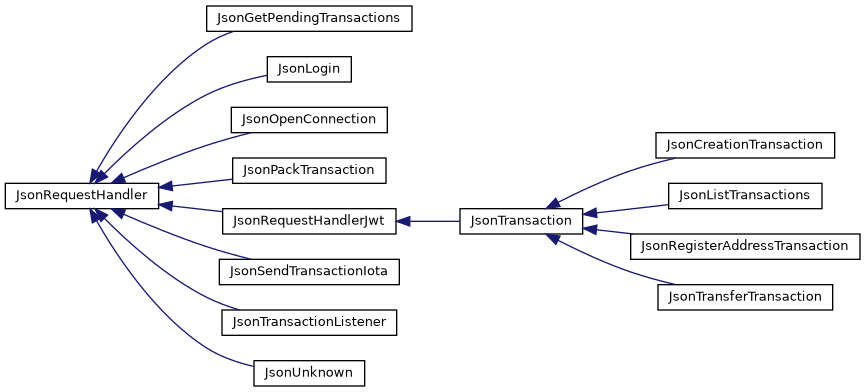
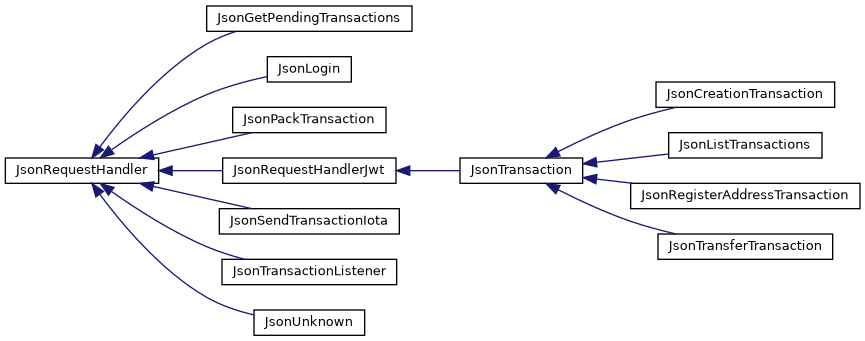
deploy: db9c74a3f419a158d69f83db709e3152a1f43d9a

diff --git a/hierarchy.html b/hierarchy.html
@@ -93,26 +93,25 @@ This inheritance list is sorted roughly, but not completely, alphabetically:</di
 <tr id="row_4_" class="even"><td class="entry"><span style="width:0px;display:inline-block;">&#160;</span><span id="arr_4_" class="arrow" onclick="toggleFolder('4_')">&#9660;</span><span class="icona"><span class="icon">C</span></span><a class="elRef" href="class_json_request_handler.html" target="_self">JsonRequestHandler</a>&#160;[external]</td><td class="desc"></td></tr>
 <tr id="row_4_0_"><td class="entry"><span style="width:32px;display:inline-block;">&#160;</span><span class="icona"><span class="icon">C</span></span><a class="el" href="class_json_get_pending_transactions.html" target="_self">JsonGetPendingTransactions</a></td><td class="desc"></td></tr>
 <tr id="row_4_1_" class="even"><td class="entry"><span style="width:32px;display:inline-block;">&#160;</span><span class="icona"><span class="icon">C</span></span><a class="el" href="class_json_login.html" target="_self">JsonLogin</a></td><td class="desc"></td></tr>
-<tr id="row_4_2_"><td class="entry"><span style="width:32px;display:inline-block;">&#160;</span><span class="icona"><span class="icon">C</span></span><a class="el" href="class_json_open_connection.html" target="_self">JsonOpenConnection</a></td><td class="desc"></td></tr>
-<tr id="row_4_3_" class="even"><td class="entry"><span style="width:32px;display:inline-block;">&#160;</span><span class="icona"><span class="icon">C</span></span><a class="el" href="class_json_pack_transaction.html" target="_self">JsonPackTransaction</a></td><td class="desc">Create protobuf byte array from transaction details </td></tr>
-<tr id="row_4_4_"><td class="entry"><span style="width:16px;display:inline-block;">&#160;</span><span id="arr_4_4_" class="arrow" onclick="toggleFolder('4_4_')">&#9660;</span><span class="icona"><span class="icon">C</span></span><a class="elRef" href="class_json_request_handler_jwt.html" target="_self">JsonRequestHandlerJwt</a>&#160;[external]</td><td class="desc"></td></tr>
-<tr id="row_4_4_0_" class="even"><td class="entry"><span style="width:32px;display:inline-block;">&#160;</span><span id="arr_4_4_0_" class="arrow" onclick="toggleFolder('4_4_0_')">&#9660;</span><span class="icona"><span class="icon">C</span></span><a class="el" href="class_json_transaction.html" target="_self">JsonTransaction</a></td><td class="desc"></td></tr>
-<tr id="row_4_4_0_0_"><td class="entry"><span style="width:64px;display:inline-block;">&#160;</span><span class="icona"><span class="icon">C</span></span><a class="el" href="class_json_creation_transaction.html" target="_self">JsonCreationTransaction</a></td><td class="desc"></td></tr>
-<tr id="row_4_4_0_1_" class="even"><td class="entry"><span style="width:64px;display:inline-block;">&#160;</span><span class="icona"><span class="icon">C</span></span><a class="el" href="class_json_list_transactions.html" target="_self">JsonListTransactions</a></td><td class="desc"></td></tr>
-<tr id="row_4_4_0_2_"><td class="entry"><span style="width:64px;display:inline-block;">&#160;</span><span class="icona"><span class="icon">C</span></span><a class="el" href="class_json_register_address_transaction.html" target="_self">JsonRegisterAddressTransaction</a></td><td class="desc"></td></tr>
-<tr id="row_4_4_0_3_" class="even"><td class="entry"><span style="width:64px;display:inline-block;">&#160;</span><span class="icona"><span class="icon">C</span></span><a class="el" href="class_json_transfer_transaction.html" target="_self">JsonTransferTransaction</a></td><td class="desc"></td></tr>
-<tr id="row_4_5_"><td class="entry"><span style="width:32px;display:inline-block;">&#160;</span><span class="icona"><span class="icon">C</span></span><a class="el" href="class_json_send_transaction_iota.html" target="_self">JsonSendTransactionIota</a></td><td class="desc">Create protobuf byte array from transaction details* </td></tr>
-<tr id="row_4_6_" class="even"><td class="entry"><span style="width:32px;display:inline-block;">&#160;</span><span class="icona"><span class="icon">C</span></span><a class="el" href="class_json_transaction_listener.html" target="_self">JsonTransactionListener</a></td><td class="desc"></td></tr>
-<tr id="row_4_7_"><td class="entry"><span style="width:32px;display:inline-block;">&#160;</span><span class="icona"><span class="icon">C</span></span><a class="el" href="class_json_unknown.html" target="_self">JsonUnknown</a></td><td class="desc"></td></tr>
-<tr id="row_5_" class="even"><td class="entry"><span style="width:0px;display:inline-block;">&#160;</span><span id="arr_5_" class="arrow" onclick="toggleFolder('5_')">&#9660;</span><span class="icona"><span class="icon">C</span></span><a class="elRef" href="class_multithread_container.html" target="_self">MultithreadContainer</a>&#160;[external]</td><td class="desc"></td></tr>
-<tr id="row_5_0_"><td class="entry"><span style="width:32px;display:inline-block;">&#160;</span><span class="icona"><span class="icon">C</span></span><a class="el" href="class_password_encryption_rate_limiter.html" target="_self">PasswordEncryptionRateLimiter</a></td><td class="desc"></td></tr>
-<tr id="row_5_1_" class="even"><td class="entry"><span style="width:32px;display:inline-block;">&#160;</span><span class="icona"><span class="icon">C</span></span><a class="el" href="classmodel_1_1_pending_transactions.html" target="_self">model::PendingTransactions</a></td><td class="desc"></td></tr>
-<tr id="row_5_2_"><td class="entry"><span style="width:32px;display:inline-block;">&#160;</span><span class="icona"><span class="icon">C</span></span><a class="el" href="classmodel_1_1_session.html" target="_self">model::Session</a></td><td class="desc"></td></tr>
-<tr id="row_6_" class="even"><td class="entry"><span style="width:16px;display:inline-block;">&#160;</span><span class="icona"><span class="icon">C</span></span><a class="el" href="structmodel_1_1_pending_transactions_1_1_pending_transaction.html" target="_self">model::PendingTransactions::PendingTransaction</a></td><td class="desc"></td></tr>
-<tr id="row_7_"><td class="entry"><span style="width:0px;display:inline-block;">&#160;</span><span id="arr_7_" class="arrow" onclick="toggleFolder('7_')">&#9660;</span><span class="icona"><span class="icon">C</span></span><b>Poco::Util::ServerApplication</b></td><td class="desc"></td></tr>
-<tr id="row_7_0_" class="even"><td class="entry"><span style="width:32px;display:inline-block;">&#160;</span><span class="icona"><span class="icon">C</span></span><a class="el" href="class_gradido_blockchain_connector.html" target="_self">GradidoBlockchainConnector</a></td><td class="desc"></td></tr>
-<tr id="row_8_"><td class="entry"><span style="width:16px;display:inline-block;">&#160;</span><span class="icona"><span class="icon">C</span></span><a class="el" href="class_session_manager.html" target="_self">SessionManager</a></td><td class="desc"></td></tr>
-<tr id="row_9_" class="even"><td class="entry"><span style="width:16px;display:inline-block;">&#160;</span><span class="icona"><span class="icon">C</span></span><a class="el" href="classmodel_1_1table_1_1_versions_manager.html" target="_self">model::table::VersionsManager</a></td><td class="desc"></td></tr>
+<tr id="row_4_2_"><td class="entry"><span style="width:32px;display:inline-block;">&#160;</span><span class="icona"><span class="icon">C</span></span><a class="el" href="class_json_pack_transaction.html" target="_self">JsonPackTransaction</a></td><td class="desc">Create protobuf byte array from transaction details </td></tr>
+<tr id="row_4_3_" class="even"><td class="entry"><span style="width:16px;display:inline-block;">&#160;</span><span id="arr_4_3_" class="arrow" onclick="toggleFolder('4_3_')">&#9660;</span><span class="icona"><span class="icon">C</span></span><a class="elRef" href="class_json_request_handler_jwt.html" target="_self">JsonRequestHandlerJwt</a>&#160;[external]</td><td class="desc"></td></tr>
+<tr id="row_4_3_0_"><td class="entry"><span style="width:32px;display:inline-block;">&#160;</span><span id="arr_4_3_0_" class="arrow" onclick="toggleFolder('4_3_0_')">&#9660;</span><span class="icona"><span class="icon">C</span></span><a class="el" href="class_json_transaction.html" target="_self">JsonTransaction</a></td><td class="desc"></td></tr>
+<tr id="row_4_3_0_0_" class="even"><td class="entry"><span style="width:64px;display:inline-block;">&#160;</span><span class="icona"><span class="icon">C</span></span><a class="el" href="class_json_creation_transaction.html" target="_self">JsonCreationTransaction</a></td><td class="desc"></td></tr>
+<tr id="row_4_3_0_1_"><td class="entry"><span style="width:64px;display:inline-block;">&#160;</span><span class="icona"><span class="icon">C</span></span><a class="el" href="class_json_list_transactions.html" target="_self">JsonListTransactions</a></td><td class="desc"></td></tr>
+<tr id="row_4_3_0_2_" class="even"><td class="entry"><span style="width:64px;display:inline-block;">&#160;</span><span class="icona"><span class="icon">C</span></span><a class="el" href="class_json_register_address_transaction.html" target="_self">JsonRegisterAddressTransaction</a></td><td class="desc"></td></tr>
+<tr id="row_4_3_0_3_"><td class="entry"><span style="width:64px;display:inline-block;">&#160;</span><span class="icona"><span class="icon">C</span></span><a class="el" href="class_json_transfer_transaction.html" target="_self">JsonTransferTransaction</a></td><td class="desc"></td></tr>
+<tr id="row_4_4_" class="even"><td class="entry"><span style="width:32px;display:inline-block;">&#160;</span><span class="icona"><span class="icon">C</span></span><a class="el" href="class_json_send_transaction_iota.html" target="_self">JsonSendTransactionIota</a></td><td class="desc">Create protobuf byte array from transaction details* </td></tr>
+<tr id="row_4_5_"><td class="entry"><span style="width:32px;display:inline-block;">&#160;</span><span class="icona"><span class="icon">C</span></span><a class="el" href="class_json_transaction_listener.html" target="_self">JsonTransactionListener</a></td><td class="desc"></td></tr>
+<tr id="row_4_6_" class="even"><td class="entry"><span style="width:32px;display:inline-block;">&#160;</span><span class="icona"><span class="icon">C</span></span><a class="el" href="class_json_unknown.html" target="_self">JsonUnknown</a></td><td class="desc"></td></tr>
+<tr id="row_5_"><td class="entry"><span style="width:0px;display:inline-block;">&#160;</span><span id="arr_5_" class="arrow" onclick="toggleFolder('5_')">&#9660;</span><span class="icona"><span class="icon">C</span></span><a class="elRef" href="class_multithread_container.html" target="_self">MultithreadContainer</a>&#160;[external]</td><td class="desc"></td></tr>
+<tr id="row_5_0_" class="even"><td class="entry"><span style="width:32px;display:inline-block;">&#160;</span><span class="icona"><span class="icon">C</span></span><a class="el" href="class_password_encryption_rate_limiter.html" target="_self">PasswordEncryptionRateLimiter</a></td><td class="desc"></td></tr>
+<tr id="row_5_1_"><td class="entry"><span style="width:32px;display:inline-block;">&#160;</span><span class="icona"><span class="icon">C</span></span><a class="el" href="classmodel_1_1_pending_transactions.html" target="_self">model::PendingTransactions</a></td><td class="desc"></td></tr>
+<tr id="row_5_2_" class="even"><td class="entry"><span style="width:32px;display:inline-block;">&#160;</span><span class="icona"><span class="icon">C</span></span><a class="el" href="classmodel_1_1_session.html" target="_self">model::Session</a></td><td class="desc"></td></tr>
+<tr id="row_6_"><td class="entry"><span style="width:16px;display:inline-block;">&#160;</span><span class="icona"><span class="icon">C</span></span><a class="el" href="structmodel_1_1_pending_transactions_1_1_pending_transaction.html" target="_self">model::PendingTransactions::PendingTransaction</a></td><td class="desc"></td></tr>
+<tr id="row_7_" class="even"><td class="entry"><span style="width:0px;display:inline-block;">&#160;</span><span id="arr_7_" class="arrow" onclick="toggleFolder('7_')">&#9660;</span><span class="icona"><span class="icon">C</span></span><b>Poco::Util::ServerApplication</b></td><td class="desc"></td></tr>
+<tr id="row_7_0_"><td class="entry"><span style="width:32px;display:inline-block;">&#160;</span><span class="icona"><span class="icon">C</span></span><a class="el" href="class_gradido_blockchain_connector.html" target="_self">GradidoBlockchainConnector</a></td><td class="desc"></td></tr>
+<tr id="row_8_" class="even"><td class="entry"><span style="width:16px;display:inline-block;">&#160;</span><span class="icona"><span class="icon">C</span></span><a class="el" href="class_session_manager.html" target="_self">SessionManager</a></td><td class="desc"></td></tr>
+<tr id="row_9_"><td class="entry"><span style="width:16px;display:inline-block;">&#160;</span><span class="icona"><span class="icon">C</span></span><a class="el" href="classmodel_1_1table_1_1_versions_manager.html" target="_self">model::table::VersionsManager</a></td><td class="desc"></td></tr>
 </table>
 </div><!-- directory -->
 </div><!-- contents -->

diff --git a/annotated.html b/annotated.html
@@ -94,20 +94,19 @@ $(function() {
 <tr id="row_6_"><td class="entry"><span style="width:16px;display:inline-block;">&#160;</span><span class="icona"><span class="icon">C</span></span><a class="el" href="class_json_get_pending_transactions.html" target="_self">JsonGetPendingTransactions</a></td><td class="desc"></td></tr>
 <tr id="row_7_" class="even"><td class="entry"><span style="width:16px;display:inline-block;">&#160;</span><span class="icona"><span class="icon">C</span></span><a class="el" href="class_json_list_transactions.html" target="_self">JsonListTransactions</a></td><td class="desc"></td></tr>
 <tr id="row_8_"><td class="entry"><span style="width:16px;display:inline-block;">&#160;</span><span class="icona"><span class="icon">C</span></span><a class="el" href="class_json_login.html" target="_self">JsonLogin</a></td><td class="desc"></td></tr>
-<tr id="row_9_" class="even"><td class="entry"><span style="width:16px;display:inline-block;">&#160;</span><span class="icona"><span class="icon">C</span></span><a class="el" href="class_json_open_connection.html" target="_self">JsonOpenConnection</a></td><td class="desc"></td></tr>
-<tr id="row_10_"><td class="entry"><span style="width:16px;display:inline-block;">&#160;</span><span class="icona"><span class="icon">C</span></span><a class="el" href="class_json_pack_transaction.html" target="_self">JsonPackTransaction</a></td><td class="desc">Create protobuf byte array from transaction details </td></tr>
-<tr id="row_11_" class="even"><td class="entry"><span style="width:16px;display:inline-block;">&#160;</span><span class="icona"><span class="icon">C</span></span><a class="el" href="class_json_register_address_transaction.html" target="_self">JsonRegisterAddressTransaction</a></td><td class="desc"></td></tr>
-<tr id="row_12_"><td class="entry"><span style="width:16px;display:inline-block;">&#160;</span><span class="icona"><span class="icon">C</span></span><a class="el" href="class_json_request_handler_factory.html" target="_self">JsonRequestHandlerFactory</a></td><td class="desc"></td></tr>
-<tr id="row_13_" class="even"><td class="entry"><span style="width:16px;display:inline-block;">&#160;</span><span class="icona"><span class="icon">C</span></span><a class="el" href="class_json_send_transaction_iota.html" target="_self">JsonSendTransactionIota</a></td><td class="desc">Create protobuf byte array from transaction details* </td></tr>
-<tr id="row_14_"><td class="entry"><span style="width:16px;display:inline-block;">&#160;</span><span class="icona"><span class="icon">C</span></span><a class="el" href="class_json_transaction.html" target="_self">JsonTransaction</a></td><td class="desc"></td></tr>
-<tr id="row_15_" class="even"><td class="entry"><span style="width:16px;display:inline-block;">&#160;</span><span class="icona"><span class="icon">C</span></span><a class="el" href="class_json_transaction_listener.html" target="_self">JsonTransactionListener</a></td><td class="desc"></td></tr>
-<tr id="row_16_"><td class="entry"><span style="width:16px;display:inline-block;">&#160;</span><span class="icona"><span class="icon">C</span></span><a class="el" href="class_json_transfer_transaction.html" target="_self">JsonTransferTransaction</a></td><td class="desc"></td></tr>
-<tr id="row_17_" class="even"><td class="entry"><span style="width:16px;display:inline-block;">&#160;</span><span class="icona"><span class="icon">C</span></span><a class="el" href="class_json_unknown.html" target="_self">JsonUnknown</a></td><td class="desc"></td></tr>
-<tr id="row_18_"><td class="entry"><span style="width:16px;display:inline-block;">&#160;</span><span class="icona"><span class="icon">C</span></span><a class="el" href="class_login_exception.html" target="_self">LoginException</a></td><td class="desc"></td></tr>
-<tr id="row_19_" class="even"><td class="entry"><span style="width:16px;display:inline-block;">&#160;</span><span class="icona"><span class="icon">C</span></span><a class="el" href="class_password_encryption_rate_limiter.html" target="_self">PasswordEncryptionRateLimiter</a></td><td class="desc"></td></tr>
-<tr id="row_20_"><td class="entry"><span style="width:16px;display:inline-block;">&#160;</span><span class="icona"><span class="icon">C</span></span><a class="el" href="class_password_encryption_rate_limit_exception.html" target="_self">PasswordEncryptionRateLimitException</a></td><td class="desc"></td></tr>
-<tr id="row_21_" class="even"><td class="entry"><span style="width:16px;display:inline-block;">&#160;</span><span class="icona"><span class="icon">C</span></span><a class="el" href="class_session_exception.html" target="_self">SessionException</a></td><td class="desc"></td></tr>
-<tr id="row_22_"><td class="entry"><span style="width:16px;display:inline-block;">&#160;</span><span class="icona"><span class="icon">C</span></span><a class="el" href="class_session_manager.html" target="_self">SessionManager</a></td><td class="desc"></td></tr>
+<tr id="row_9_" class="even"><td class="entry"><span style="width:16px;display:inline-block;">&#160;</span><span class="icona"><span class="icon">C</span></span><a class="el" href="class_json_pack_transaction.html" target="_self">JsonPackTransaction</a></td><td class="desc">Create protobuf byte array from transaction details </td></tr>
+<tr id="row_10_"><td class="entry"><span style="width:16px;display:inline-block;">&#160;</span><span class="icona"><span class="icon">C</span></span><a class="el" href="class_json_register_address_transaction.html" target="_self">JsonRegisterAddressTransaction</a></td><td class="desc"></td></tr>
+<tr id="row_11_" class="even"><td class="entry"><span style="width:16px;display:inline-block;">&#160;</span><span class="icona"><span class="icon">C</span></span><a class="el" href="class_json_request_handler_factory.html" target="_self">JsonRequestHandlerFactory</a></td><td class="desc"></td></tr>
+<tr id="row_12_"><td class="entry"><span style="width:16px;display:inline-block;">&#160;</span><span class="icona"><span class="icon">C</span></span><a class="el" href="class_json_send_transaction_iota.html" target="_self">JsonSendTransactionIota</a></td><td class="desc">Create protobuf byte array from transaction details* </td></tr>
+<tr id="row_13_" class="even"><td class="entry"><span style="width:16px;display:inline-block;">&#160;</span><span class="icona"><span class="icon">C</span></span><a class="el" href="class_json_transaction.html" target="_self">JsonTransaction</a></td><td class="desc"></td></tr>
+<tr id="row_14_"><td class="entry"><span style="width:16px;display:inline-block;">&#160;</span><span class="icona"><span class="icon">C</span></span><a class="el" href="class_json_transaction_listener.html" target="_self">JsonTransactionListener</a></td><td class="desc"></td></tr>
+<tr id="row_15_" class="even"><td class="entry"><span style="width:16px;display:inline-block;">&#160;</span><span class="icona"><span class="icon">C</span></span><a class="el" href="class_json_transfer_transaction.html" target="_self">JsonTransferTransaction</a></td><td class="desc"></td></tr>
+<tr id="row_16_"><td class="entry"><span style="width:16px;display:inline-block;">&#160;</span><span class="icona"><span class="icon">C</span></span><a class="el" href="class_json_unknown.html" target="_self">JsonUnknown</a></td><td class="desc"></td></tr>
+<tr id="row_17_" class="even"><td class="entry"><span style="width:16px;display:inline-block;">&#160;</span><span class="icona"><span class="icon">C</span></span><a class="el" href="class_login_exception.html" target="_self">LoginException</a></td><td class="desc"></td></tr>
+<tr id="row_18_"><td class="entry"><span style="width:16px;display:inline-block;">&#160;</span><span class="icona"><span class="icon">C</span></span><a class="el" href="class_password_encryption_rate_limiter.html" target="_self">PasswordEncryptionRateLimiter</a></td><td class="desc"></td></tr>
+<tr id="row_19_" class="even"><td class="entry"><span style="width:16px;display:inline-block;">&#160;</span><span class="icona"><span class="icon">C</span></span><a class="el" href="class_password_encryption_rate_limit_exception.html" target="_self">PasswordEncryptionRateLimitException</a></td><td class="desc"></td></tr>
+<tr id="row_20_"><td class="entry"><span style="width:16px;display:inline-block;">&#160;</span><span class="icona"><span class="icon">C</span></span><a class="el" href="class_session_exception.html" target="_self">SessionException</a></td><td class="desc"></td></tr>
+<tr id="row_21_" class="even"><td class="entry"><span style="width:16px;display:inline-block;">&#160;</span><span class="icona"><span class="icon">C</span></span><a class="el" href="class_session_manager.html" target="_self">SessionManager</a></td><td class="desc"></td></tr>
 </table>
 </div><!-- directory -->
 </div><!-- contents -->

diff --git a/_json_open_connection_8h_source.html b/_json_open_connection_8h_source.html
@@ -77,15 +77,14 @@ $(function() {
 <div class="line"><a id="l00003" name="l00003"></a><span class="lineno">    3</span> </div>
 <div class="line"><a id="l00004" name="l00004"></a><span class="lineno">    4</span><span class="preprocessor">#include &quot;gradido_blockchain/http/JsonRequestHandler.h&quot;</span></div>
 <div class="line"><a id="l00005" name="l00005"></a><span class="lineno">    5</span> </div>
-<div class="line"><a id="l00006" name="l00006"></a><span class="lineno"><a class="line" href="class_json_open_connection.html">    6</a></span><span class="keyword">class </span><a class="code hl_class" href="class_json_open_connection.html">JsonOpenConnection</a> : <span class="keyword">public</span> <a class="code hl_classRef" href="class_json_request_handler.html">JsonRequestHandler</a></div>
-<div class="line"><a id="l00007" name="l00007"></a><span class="lineno">    7</span>{</div>
-<div class="line"><a id="l00008" name="l00008"></a><span class="lineno">    8</span><span class="keyword">public</span>:</div>
-<div class="line"><a id="l00009" name="l00009"></a><span class="lineno">    9</span>    <span class="keywordtype">void</span> handleRequest(Poco::Net::HTTPServerRequest&amp; request, Poco::Net::HTTPServerResponse&amp; response);</div>
-<div class="line"><a id="l00010" name="l00010"></a><span class="lineno">   10</span> </div>
-<div class="line"><a id="l00011" name="l00011"></a><span class="lineno">   11</span>};</div>
-<div class="line"><a id="l00012" name="l00012"></a><span class="lineno">   12</span> </div>
-<div class="line"><a id="l00013" name="l00013"></a><span class="lineno">   13</span><span class="preprocessor">#endif </span><span class="comment">//__GRADIDO_BLOCKCHAIN_CONNECTOR_JSON_INTERFACE_OPEN_CONNECTION_H</span></div>
-<div class="ttc" id="aclass_json_open_connection_html"><div class="ttname"><a href="class_json_open_connection.html">JsonOpenConnection</a></div><div class="ttdef"><b>Definition:</b> JsonOpenConnection.h:7</div></div>
+<div class="line"><a id="l00014" name="l00014"></a><span class="lineno">   14</span><span class="keyword">class </span>JsonOpenConnection : <span class="keyword">public</span> <a class="code hl_classRef" href="class_json_request_handler.html">JsonRequestHandler</a></div>
+<div class="line"><a id="l00015" name="l00015"></a><span class="lineno">   15</span>{</div>
+<div class="line"><a id="l00016" name="l00016"></a><span class="lineno">   16</span><span class="keyword">public</span>:</div>
+<div class="line"><a id="l00017" name="l00017"></a><span class="lineno">   17</span>    <span class="keywordtype">void</span> handleRequest(Poco::Net::HTTPServerRequest&amp; request, Poco::Net::HTTPServerResponse&amp; response);</div>
+<div class="line"><a id="l00018" name="l00018"></a><span class="lineno">   18</span> </div>
+<div class="line"><a id="l00019" name="l00019"></a><span class="lineno">   19</span>};</div>
+<div class="line"><a id="l00020" name="l00020"></a><span class="lineno">   20</span> </div>
+<div class="line"><a id="l00021" name="l00021"></a><span class="lineno">   21</span><span class="preprocessor">#endif </span><span class="comment">//__GRADIDO_BLOCKCHAIN_CONNECTOR_JSON_INTERFACE_OPEN_CONNECTION_H</span></div>
 <div class="ttc" id="aclass_json_request_handler_html"><div class="ttname"><a href="class_json_request_handler.html">JsonRequestHandler</a></div></div>
 </div><!-- fragment --></div><!-- contents -->
 <!-- start footer part -->

diff --git a/inherits.html b/inherits.html
@@ -92,20 +92,19 @@ $(function() {
 </td></tr>
 <tr><td><img src="inherit_graph_2.png" border="0" usemap="#a_json_request_handler" alt=""/>
 <map name="a_json_request_handler" id="a_json_request_handler">
-<area shape="rect" target="_parent" href="class_json_request_handler.html" title=" " alt="" coords="5,183,159,209"/>
+<area shape="rect" target="_parent" href="class_json_request_handler.html" title=" " alt="" coords="5,157,159,184"/>
 <area shape="rect" href="class_json_get_pending_transactions.html" title=" " alt="" coords="207,5,412,32"/>
 <area shape="rect" href="class_json_login.html" title=" " alt="" coords="267,56,351,83"/>
-<area shape="rect" href="class_json_open_connection.html" title=" " alt="" coords="231,107,387,133"/>
-<area shape="rect" href="class_json_pack_transaction.html" title="create protobuf byte array from transaction details" alt="" coords="233,157,386,184"/>
-<area shape="rect" target="_parent" href="class_json_request_handler_jwt.html" title=" " alt="" coords="223,208,396,235"/>
-<area shape="rect" href="class_json_send_transaction_iota.html" title="create protobuf byte array from transaction details*" alt="" coords="219,259,399,285"/>
-<area shape="rect" href="class_json_transaction_listener.html" title=" " alt="" coords="222,309,397,336"/>
-<area shape="rect" href="class_json_unknown.html" title=" " alt="" coords="254,360,365,387"/>
-<area shape="rect" href="class_json_transaction.html" title=" " alt="" coords="460,208,583,235"/>
-<area shape="rect" href="class_json_creation_transaction.html" title=" " alt="" coords="656,132,835,159"/>
-<area shape="rect" href="class_json_list_transactions.html" title=" " alt="" coords="669,183,822,209"/>
-<area shape="rect" href="class_json_register_address_transaction.html" title=" " alt="" coords="631,233,860,260"/>
-<area shape="rect" href="class_json_transfer_transaction.html" title=" " alt="" coords="658,284,833,311"/>
+<area shape="rect" href="class_json_pack_transaction.html" title="create protobuf byte array from transaction details" alt="" coords="233,107,386,133"/>
+<area shape="rect" target="_parent" href="class_json_request_handler_jwt.html" title=" " alt="" coords="223,157,396,184"/>
+<area shape="rect" href="class_json_send_transaction_iota.html" title="create protobuf byte array from transaction details*" alt="" coords="219,208,399,235"/>
+<area shape="rect" href="class_json_transaction_listener.html" title=" " alt="" coords="222,259,397,285"/>
+<area shape="rect" href="class_json_unknown.html" title=" " alt="" coords="254,309,365,336"/>
+<area shape="rect" href="class_json_transaction.html" title=" " alt="" coords="460,157,583,184"/>
+<area shape="rect" href="class_json_creation_transaction.html" title=" " alt="" coords="656,81,835,108"/>
+<area shape="rect" href="class_json_list_transactions.html" title=" " alt="" coords="669,132,822,159"/>
+<area shape="rect" href="class_json_register_address_transaction.html" title=" " alt="" coords="631,183,860,209"/>
+<area shape="rect" href="class_json_transfer_transaction.html" title=" " alt="" coords="658,233,833,260"/>
 </map>
 </td></tr>
 <tr><td><img src="inherit_graph_3.png" border="0" usemap="#amodel_1_1_pending_transactions_1_1_pending_transaction" alt=""/>

diff --git a/search/all_9.js b/search/all_9.js
@@ -5,19 +5,18 @@ var searchData=
   ['jsongetpendingtransactions_2',['JsonGetPendingTransactions',['../class_json_get_pending_transactions.html',1,'']]],
   ['jsonlisttransactions_3',['JsonListTransactions',['../class_json_list_transactions.html',1,'']]],
   ['jsonlogin_4',['JsonLogin',['../class_json_login.html',1,'']]],
-  ['jsonopenconnection_5',['JsonOpenConnection',['../class_json_open_connection.html',1,'']]],
-  ['jsonpacktransaction_6',['JsonPackTransaction',['../class_json_pack_transaction.html',1,'']]],
-  ['jsonregisteraddresstransaction_7',['JsonRegisterAddressTransaction',['../class_json_register_address_transaction.html',1,'']]],
-  ['jsonrequest_8',['JsonRequest',['class_json_request.html',1,'']]],
-  ['jsonrequesthandler_9',['JsonRequestHandler',['class_json_request_handler.html',1,'']]],
-  ['jsonrequesthandlerfactory_10',['JsonRequestHandlerFactory',['../class_json_request_handler_factory.html',1,'']]],
-  ['jsonrequesthandlerjwt_11',['JsonRequestHandlerJwt',['class_json_request_handler_jwt.html',1,'']]],
-  ['jsonrpcexception_12',['JsonRPCException',['class_json_r_p_c_exception.html',1,'']]],
-  ['jsonrpcrequest_13',['JsonRPCRequest',['class_json_r_p_c_request.html',1,'']]],
-  ['jsonsendtransactioniota_14',['JsonSendTransactionIota',['../class_json_send_transaction_iota.html',1,'']]],
-  ['jsontransaction_15',['JsonTransaction',['../class_json_transaction.html',1,'']]],
-  ['jsontransactionlistener_16',['JsonTransactionListener',['../class_json_transaction_listener.html',1,'']]],
-  ['jsontransfertransaction_17',['JsonTransferTransaction',['../class_json_transfer_transaction.html',1,'']]],
-  ['jsonunknown_18',['JsonUnknown',['../class_json_unknown.html',1,'']]],
-  ['jwttokenexception_19',['JwtTokenException',['class_jwt_token_exception.html',1,'']]]
+  ['jsonpacktransaction_5',['JsonPackTransaction',['../class_json_pack_transaction.html',1,'']]],
+  ['jsonregisteraddresstransaction_6',['JsonRegisterAddressTransaction',['../class_json_register_address_transaction.html',1,'']]],
+  ['jsonrequest_7',['JsonRequest',['class_json_request.html',1,'']]],
+  ['jsonrequesthandler_8',['JsonRequestHandler',['class_json_request_handler.html',1,'']]],
+  ['jsonrequesthandlerfactory_9',['JsonRequestHandlerFactory',['../class_json_request_handler_factory.html',1,'']]],
+  ['jsonrequesthandlerjwt_10',['JsonRequestHandlerJwt',['class_json_request_handler_jwt.html',1,'']]],
+  ['jsonrpcexception_11',['JsonRPCException',['class_json_r_p_c_exception.html',1,'']]],
+  ['jsonrpcrequest_12',['JsonRPCRequest',['class_json_r_p_c_request.html',1,'']]],
+  ['jsonsendtransactioniota_13',['JsonSendTransactionIota',['../class_json_send_transaction_iota.html',1,'']]],
+  ['jsontransaction_14',['JsonTransaction',['../class_json_transaction.html',1,'']]],
+  ['jsontransactionlistener_15',['JsonTransactionListener',['../class_json_transaction_listener.html',1,'']]],
+  ['jsontransfertransaction_16',['JsonTransferTransaction',['../class_json_transfer_transaction.html',1,'']]],
+  ['jsonunknown_17',['JsonUnknown',['../class_json_unknown.html',1,'']]],
+  ['jwttokenexception_18',['JwtTokenException',['class_jwt_token_exception.html',1,'']]]
 ];

diff --git a/search/classes_8.js b/search/classes_8.js
@@ -5,19 +5,18 @@ var searchData=
   ['jsongetpendingtransactions_2',['JsonGetPendingTransactions',['../class_json_get_pending_transactions.html',1,'']]],
   ['jsonlisttransactions_3',['JsonListTransactions',['../class_json_list_transactions.html',1,'']]],
   ['jsonlogin_4',['JsonLogin',['../class_json_login.html',1,'']]],
-  ['jsonopenconnection_5',['JsonOpenConnection',['../class_json_open_connection.html',1,'']]],
-  ['jsonpacktransaction_6',['JsonPackTransaction',['../class_json_pack_transaction.html',1,'']]],
-  ['jsonregisteraddresstransaction_7',['JsonRegisterAddressTransaction',['../class_json_register_address_transaction.html',1,'']]],
-  ['jsonrequest_8',['JsonRequest',['class_json_request.html',1,'']]],
-  ['jsonrequesthandler_9',['JsonRequestHandler',['class_json_request_handler.html',1,'']]],
-  ['jsonrequesthandlerfactory_10',['JsonRequestHandlerFactory',['../class_json_request_handler_factory.html',1,'']]],
-  ['jsonrequesthandlerjwt_11',['JsonRequestHandlerJwt',['class_json_request_handler_jwt.html',1,'']]],
-  ['jsonrpcexception_12',['JsonRPCException',['class_json_r_p_c_exception.html',1,'']]],
-  ['jsonrpcrequest_13',['JsonRPCRequest',['class_json_r_p_c_request.html',1,'']]],
-  ['jsonsendtransactioniota_14',['JsonSendTransactionIota',['../class_json_send_transaction_iota.html',1,'']]],
-  ['jsontransaction_15',['JsonTransaction',['../class_json_transaction.html',1,'']]],
-  ['jsontransactionlistener_16',['JsonTransactionListener',['../class_json_transaction_listener.html',1,'']]],
-  ['jsontransfertransaction_17',['JsonTransferTransaction',['../class_json_transfer_transaction.html',1,'']]],
-  ['jsonunknown_18',['JsonUnknown',['../class_json_unknown.html',1,'']]],
-  ['jwttokenexception_19',['JwtTokenException',['class_jwt_token_exception.html',1,'']]]
+  ['jsonpacktransaction_5',['JsonPackTransaction',['../class_json_pack_transaction.html',1,'']]],
+  ['jsonregisteraddresstransaction_6',['JsonRegisterAddressTransaction',['../class_json_register_address_transaction.html',1,'']]],
+  ['jsonrequest_7',['JsonRequest',['class_json_request.html',1,'']]],
+  ['jsonrequesthandler_8',['JsonRequestHandler',['class_json_request_handler.html',1,'']]],
+  ['jsonrequesthandlerfactory_9',['JsonRequestHandlerFactory',['../class_json_request_handler_factory.html',1,'']]],
+  ['jsonrequesthandlerjwt_10',['JsonRequestHandlerJwt',['class_json_request_handler_jwt.html',1,'']]],
+  ['jsonrpcexception_11',['JsonRPCException',['class_json_r_p_c_exception.html',1,'']]],
+  ['jsonrpcrequest_12',['JsonRPCRequest',['class_json_r_p_c_request.html',1,'']]],
+  ['jsonsendtransactioniota_13',['JsonSendTransactionIota',['../class_json_send_transaction_iota.html',1,'']]],
+  ['jsontransaction_14',['JsonTransaction',['../class_json_transaction.html',1,'']]],
+  ['jsontransactionlistener_15',['JsonTransactionListener',['../class_json_transaction_listener.html',1,'']]],
+  ['jsontransfertransaction_16',['JsonTransferTransaction',['../class_json_transfer_transaction.html',1,'']]],
+  ['jsonunknown_17',['JsonUnknown',['../class_json_unknown.html',1,'']]],
+  ['jwttokenexception_18',['JwtTokenException',['class_jwt_token_exception.html',1,'']]]
 ];

diff --git a/classes.html b/classes.html
@@ -87,7 +87,7 @@ $(function() {
 <dd><a class="el" href="classmodel_1_1_invalid_password_exception.html">InvalidPasswordException</a> (model)</dd></dl>
 <dl class="classindex odd">
 <dt class="alphachar"><a id="letter_J" name="letter_J">J</a></dt>
-<dd><a class="el" href="class_json_creation_transaction.html">JsonCreationTransaction</a></dd><dd><a class="el" href="class_json_get_pending_transactions.html">JsonGetPendingTransactions</a></dd><dd><a class="el" href="class_json_list_transactions.html">JsonListTransactions</a></dd><dd><a class="el" href="class_json_login.html">JsonLogin</a></dd><dd><a class="el" href="class_json_open_connection.html">JsonOpenConnection</a></dd><dd><a class="el" href="class_json_pack_transaction.html">JsonPackTransaction</a></dd><dd><a class="el" href="class_json_register_address_transaction.html">JsonRegisterAddressTransaction</a></dd><dd><a class="el" href="class_json_request_handler_factory.html">JsonRequestHandlerFactory</a></dd><dd><a class="el" href="class_json_send_transaction_iota.html">JsonSendTransactionIota</a></dd><dd><a class="el" href="class_json_transaction.html">JsonTransaction</a></dd><dd><a class="el" href="class_json_transaction_listener.html">JsonTransactionListener</a></dd><dd><a class="el" href="class_json_transfer_transaction.html">JsonTransferTransaction</a></dd><dd><a class="el" href="class_json_unknown.html">JsonUnknown</a></dd></dl>
+<dd><a class="el" href="class_json_creation_transaction.html">JsonCreationTransaction</a></dd><dd><a class="el" href="class_json_get_pending_transactions.html">JsonGetPendingTransactions</a></dd><dd><a class="el" href="class_json_list_transactions.html">JsonListTransactions</a></dd><dd><a class="el" href="class_json_login.html">JsonLogin</a></dd><dd><a class="el" href="class_json_pack_transaction.html">JsonPackTransaction</a></dd><dd><a class="el" href="class_json_register_address_transaction.html">JsonRegisterAddressTransaction</a></dd><dd><a class="el" href="class_json_request_handler_factory.html">JsonRequestHandlerFactory</a></dd><dd><a class="el" href="class_json_send_transaction_iota.html">JsonSendTransactionIota</a></dd><dd><a class="el" href="class_json_transaction.html">JsonTransaction</a></dd><dd><a class="el" href="class_json_transaction_listener.html">JsonTransactionListener</a></dd><dd><a class="el" href="class_json_transfer_transaction.html">JsonTransferTransaction</a></dd><dd><a class="el" href="class_json_unknown.html">JsonUnknown</a></dd></dl>
 <dl class="classindex even">
 <dt class="alphachar"><a id="letter_L" name="letter_L">L</a></dt>
 <dd><a class="el" href="class_login_exception.html">LoginException</a></dd></dl>
